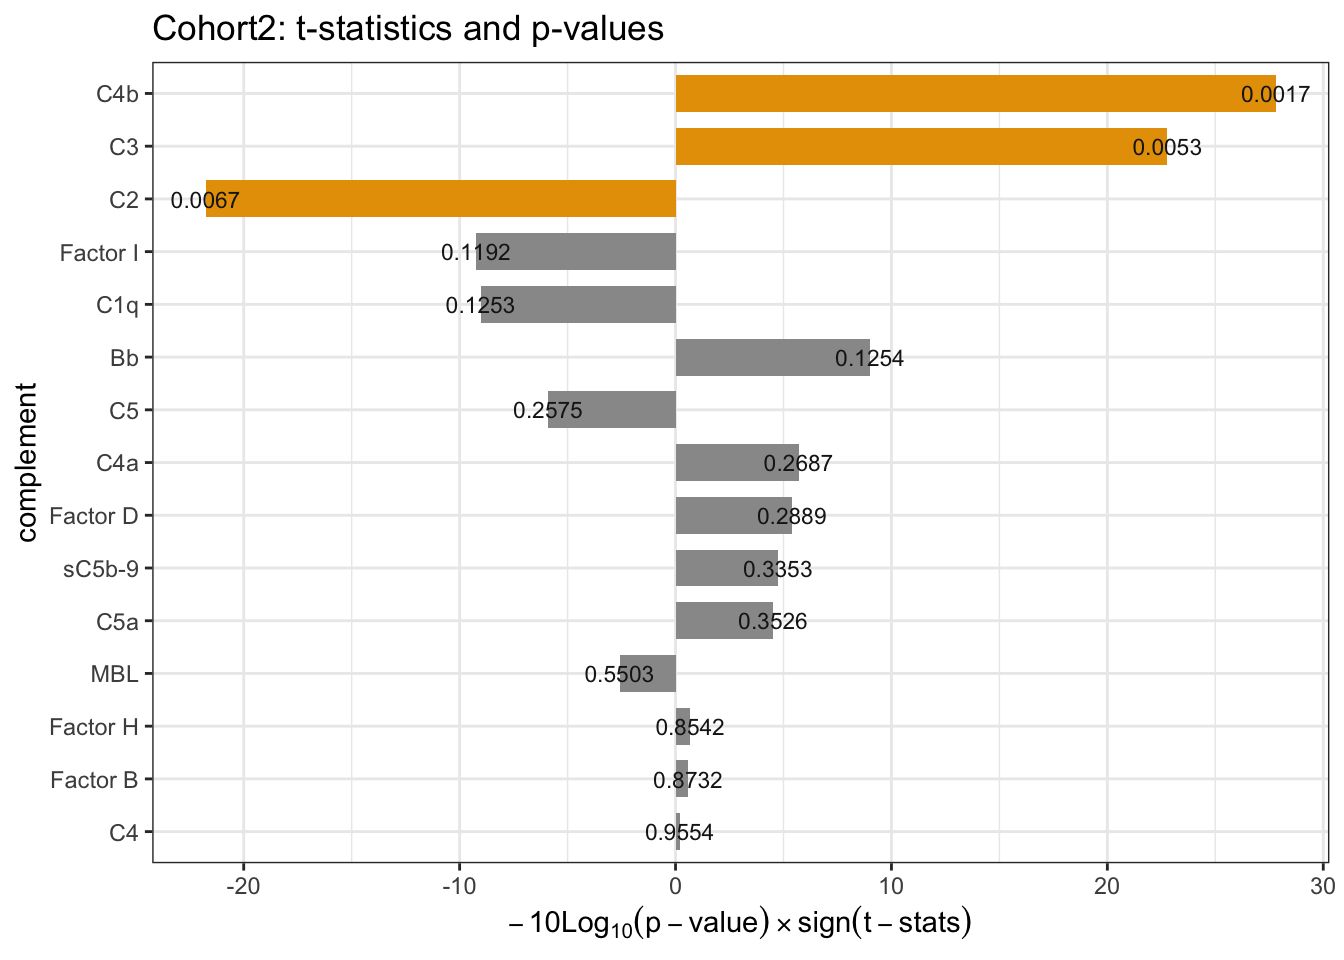
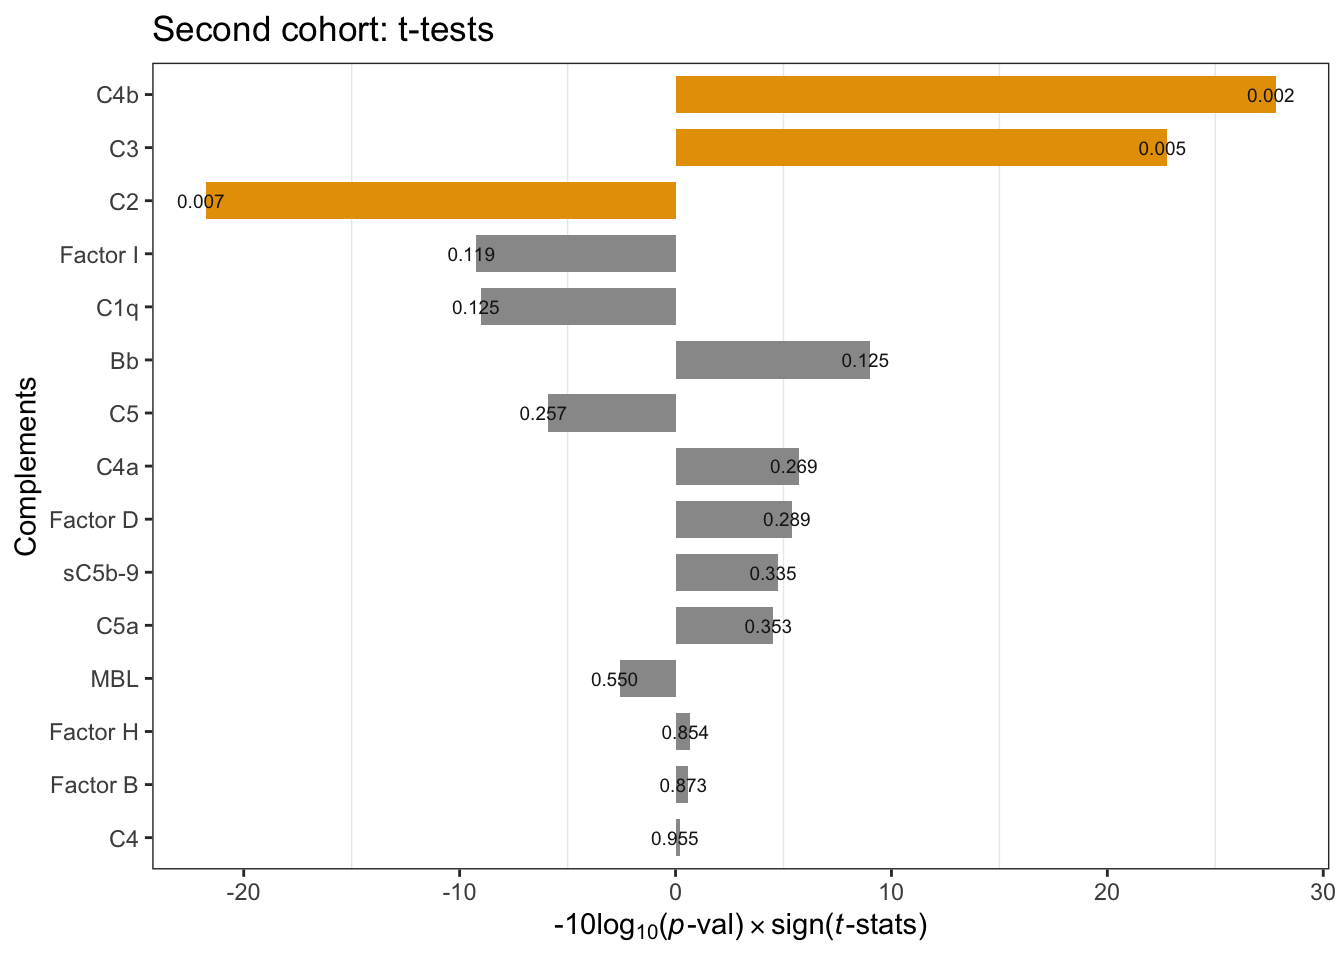
modifited first and second cohorts page

diff --git a/docs/second-cohort.html b/docs/second-cohort.html
@@ -24,7 +24,7 @@
 <meta name="author" content="Chao-Jen Wong" />
 
 
-<meta name="date" content="2021-11-27" />
+<meta name="date" content="2021-11-29" />
 
   <meta name="viewport" content="width=device-width, initial-scale=1" />
   <meta name="apple-mobile-web-app-capable" content="yes" />
@@ -208,17 +208,19 @@ code span.wa { color: #60a0b0; font-weight: bold; font-style: italic; } /* Warni
 <a class="sourceLine" id="cb1-8" data-line-number="8"><span class="kw">suppressPackageStartupMessages</span>(<span class="kw">library</span>(pheatmap))</a>
 <a class="sourceLine" id="cb1-9" data-line-number="9"><span class="kw">suppressPackageStartupMessages</span>(<span class="kw">library</span>(viridis))</a>
 <a class="sourceLine" id="cb1-10" data-line-number="10"><span class="kw">suppressPackageStartupMessages</span>(<span class="kw">library</span>(pheatmap))</a>
-<a class="sourceLine" id="cb1-11" data-line-number="11">pkg_dir &lt;-<span class="st"> &quot;~/CompBio/Wellstone_Plasma_Complement_in_FSHD&quot;</span></a>
-<a class="sourceLine" id="cb1-12" data-line-number="12"><span class="kw">source</span>(<span class="kw">file.path</span>(pkg_dir, <span class="st">&quot;scripts&quot;</span>, <span class="st">&quot;tools.R&quot;</span>))</a>
-<a class="sourceLine" id="cb1-13" data-line-number="13">fig_dir &lt;-<span class="st"> </span><span class="kw">file.path</span>(pkg_dir, <span class="st">&quot;figures&quot;</span>)</a>
-<a class="sourceLine" id="cb1-14" data-line-number="14"><span class="co"># cohort2 specific</span></a>
-<a class="sourceLine" id="cb1-15" data-line-number="15">cohort2 &lt;-<span class="st"> </span><span class="kw">get</span>(<span class="kw">load</span>(<span class="kw">file.path</span>(pkg_dir, <span class="st">&quot;data&quot;</span>, <span class="st">&quot;table_2.rda&quot;</span>)))</a>
-<a class="sourceLine" id="cb1-16" data-line-number="16">components &lt;-<span class="st"> </span><span class="kw">c</span>(<span class="st">&quot;Bb&quot;</span>, <span class="st">&quot;C2&quot;</span>, <span class="st">&quot;C4b&quot;</span>, <span class="st">&quot;C5&quot;</span>, <span class="st">&quot;C5a&quot;</span>, <span class="st">&quot;Factor D&quot;</span>, <span class="st">&quot;MBL&quot;</span>, <span class="st">&quot;Factor I&quot;</span>,</a>
-<a class="sourceLine" id="cb1-17" data-line-number="17">                <span class="st">&quot;C1q&quot;</span>, <span class="st">&quot;C3&quot;</span>, <span class="st">&quot;C4&quot;</span>, <span class="st">&quot;Factor B&quot;</span>, <span class="st">&quot;Factor H&quot;</span>,</a>
-<a class="sourceLine" id="cb1-18" data-line-number="18">                <span class="st">&quot;C4a&quot;</span>, <span class="st">&quot;sC5b-9&quot;</span>)</a>
-<a class="sourceLine" id="cb1-19" data-line-number="19">my_color &lt;-<span class="st"> </span><span class="kw">viridis_pal</span>(<span class="dt">direction =</span> <span class="dv">-1</span>)(<span class="dv">8</span>)[<span class="kw">c</span>(<span class="dv">3</span>, <span class="dv">6</span>)] <span class="co"># control and FSHD</span></a>
-<a class="sourceLine" id="cb1-20" data-line-number="20"><span class="kw">names</span>(my_color) &lt;-<span class="st"> </span><span class="kw">c</span>(<span class="st">&quot;Control&quot;</span>, <span class="st">&quot;FSHD&quot;</span>)</a>
-<a class="sourceLine" id="cb1-21" data-line-number="21">mean_color &lt;-<span class="st"> &quot;#FF0000&quot;</span></a></code></pre></div>
+<a class="sourceLine" id="cb1-11" data-line-number="11"><span class="kw">suppressPackageStartupMessages</span>(<span class="kw">library</span>(latex2exp))</a>
+<a class="sourceLine" id="cb1-12" data-line-number="12"></a>
+<a class="sourceLine" id="cb1-13" data-line-number="13">pkg_dir &lt;-<span class="st"> &quot;~/CompBio/Wellstone_Plasma_Complement_in_FSHD&quot;</span></a>
+<a class="sourceLine" id="cb1-14" data-line-number="14"><span class="kw">source</span>(<span class="kw">file.path</span>(pkg_dir, <span class="st">&quot;scripts&quot;</span>, <span class="st">&quot;tools.R&quot;</span>))</a>
+<a class="sourceLine" id="cb1-15" data-line-number="15">fig_dir &lt;-<span class="st"> </span><span class="kw">file.path</span>(pkg_dir, <span class="st">&quot;figures&quot;</span>)</a>
+<a class="sourceLine" id="cb1-16" data-line-number="16"><span class="co"># cohort2 specific</span></a>
+<a class="sourceLine" id="cb1-17" data-line-number="17">cohort2 &lt;-<span class="st"> </span><span class="kw">get</span>(<span class="kw">load</span>(<span class="kw">file.path</span>(pkg_dir, <span class="st">&quot;data&quot;</span>, <span class="st">&quot;table_2.rda&quot;</span>)))</a>
+<a class="sourceLine" id="cb1-18" data-line-number="18">components &lt;-<span class="st"> </span><span class="kw">c</span>(<span class="st">&quot;Bb&quot;</span>, <span class="st">&quot;C2&quot;</span>, <span class="st">&quot;C4b&quot;</span>, <span class="st">&quot;C5&quot;</span>, <span class="st">&quot;C5a&quot;</span>, <span class="st">&quot;Factor D&quot;</span>, <span class="st">&quot;MBL&quot;</span>, <span class="st">&quot;Factor I&quot;</span>,</a>
+<a class="sourceLine" id="cb1-19" data-line-number="19">                <span class="st">&quot;C1q&quot;</span>, <span class="st">&quot;C3&quot;</span>, <span class="st">&quot;C4&quot;</span>, <span class="st">&quot;Factor B&quot;</span>, <span class="st">&quot;Factor H&quot;</span>,</a>
+<a class="sourceLine" id="cb1-20" data-line-number="20">                <span class="st">&quot;C4a&quot;</span>, <span class="st">&quot;sC5b-9&quot;</span>)</a>
+<a class="sourceLine" id="cb1-21" data-line-number="21">my_color &lt;-<span class="st"> </span><span class="kw">viridis_pal</span>(<span class="dt">direction =</span> <span class="dv">-1</span>)(<span class="dv">8</span>)[<span class="kw">c</span>(<span class="dv">3</span>, <span class="dv">6</span>)] <span class="co"># control and FSHD</span></a>
+<a class="sourceLine" id="cb1-22" data-line-number="22"><span class="kw">names</span>(my_color) &lt;-<span class="st"> </span><span class="kw">c</span>(<span class="st">&quot;Control&quot;</span>, <span class="st">&quot;FSHD&quot;</span>)</a>
+<a class="sourceLine" id="cb1-23" data-line-number="23">mean_color &lt;-<span class="st"> &quot;#FF0000&quot;</span></a></code></pre></div>
 <div id="demographic-distribution-1" class="section level2">
 <h2><span class="header-section-number">2.1</span> Demographic distribution</h2>
 <p><strong>Age distribution of FSHD</strong></p>
@@ -397,16 +399,17 @@ female
 <a class="sourceLine" id="cb7-14" data-line-number="14"><span class="st">  </span><span class="kw">mutate</span>(<span class="dt">candidate =</span> <span class="kw">ifelse</span>(t_test <span class="op">&lt;</span><span class="st"> </span><span class="fl">0.05</span>, <span class="st">&quot;Yes&quot;</span>, <span class="st">&quot;No&quot;</span>)) <span class="op">%&gt;%</span></a>
 <a class="sourceLine" id="cb7-15" data-line-number="15"><span class="st">  </span><span class="kw">arrange</span>(<span class="kw">desc</span>(t_test)) <span class="op">%&gt;%</span></a>
 <a class="sourceLine" id="cb7-16" data-line-number="16"><span class="st">  </span><span class="kw">mutate</span>(<span class="dt">complement=</span><span class="kw">factor</span>(complement, <span class="dt">levels=</span>complement)) <span class="op">%&gt;%</span></a>
-<a class="sourceLine" id="cb7-17" data-line-number="17"><span class="st">  </span><span class="kw">mutate</span>(<span class="dt">formated_p =</span> <span class="kw">format</span>(t_test, <span class="dt">digit=</span><span class="dv">2</span>))</a></code></pre></div>
+<a class="sourceLine" id="cb7-17" data-line-number="17"><span class="st">  </span><span class="kw">mutate</span>(<span class="dt">formated_p =</span> <span class="kw">format</span>(t_test, <span class="dt">digit=</span><span class="dv">1</span>)) </a></code></pre></div>
 <div class="sourceCode" id="cb8"><pre class="sourceCode r"><code class="sourceCode r"><a class="sourceLine" id="cb8-1" data-line-number="1"><span class="kw">ggplot</span>(cohort2_ttest, <span class="kw">aes</span>(<span class="dt">x=</span>complement, <span class="dt">y=</span>log10Pval, <span class="dt">fill=</span>candidate)) <span class="op">+</span></a>
 <a class="sourceLine" id="cb8-2" data-line-number="2"><span class="st">  </span><span class="kw">geom_bar</span>(<span class="dt">stat=</span><span class="st">&quot;identity&quot;</span>, <span class="dt">width=</span><span class="fl">0.7</span>, <span class="dt">show.legend=</span><span class="ot">FALSE</span>) <span class="op">+</span></a>
 <a class="sourceLine" id="cb8-3" data-line-number="3"><span class="st">  </span><span class="kw">coord_flip</span>() <span class="op">+</span></a>
 <a class="sourceLine" id="cb8-4" data-line-number="4"><span class="st">  </span><span class="kw">scale_fill_manual</span>(<span class="dt">values=</span><span class="kw">c</span>(<span class="st">&quot;#999999&quot;</span>, <span class="st">&quot;#E69F00&quot;</span>)) <span class="op">+</span></a>
 <a class="sourceLine" id="cb8-5" data-line-number="5"><span class="st">  </span><span class="kw">theme_bw</span>() <span class="op">+</span></a>
-<a class="sourceLine" id="cb8-6" data-line-number="6"><span class="st">  </span><span class="kw">labs</span>(<span class="dt">title=</span><span class="st">&quot;Cohort2: t-statistics and p-values&quot;</span>, </a>
-<a class="sourceLine" id="cb8-7" data-line-number="7">       <span class="dt">y=</span><span class="kw">expression</span>(<span class="op">-</span><span class="dv">10</span><span class="op">*</span>Log[<span class="dv">10</span>](p<span class="op">-</span>value) <span class="op">%*%</span><span class="st"> </span><span class="kw">sign</span>(t<span class="op">-</span>stats))) <span class="op">+</span></a>
-<a class="sourceLine" id="cb8-8" data-line-number="8"><span class="st">  </span><span class="kw">geom_text</span>(<span class="kw">aes</span>(<span class="dt">label=</span>formated_p), <span class="dt">vjust=</span><span class="fl">0.5</span>, <span class="dt">hjust=</span><span class="fl">0.5</span>, <span class="dt">color=</span><span class="st">&quot;gray10&quot;</span>,</a>
-<a class="sourceLine" id="cb8-9" data-line-number="9">            <span class="dt">position =</span> <span class="kw">position_dodge</span>(<span class="dv">1</span>), <span class="dt">size=</span><span class="dv">3</span>)</a></code></pre></div>
+<a class="sourceLine" id="cb8-6" data-line-number="6"><span class="st">  </span><span class="kw">labs</span>(<span class="dt">title=</span><span class="kw">TeX</span>(<span class="st">&quot;Second cohort: $t$-tests&quot;</span>), <span class="dt">x=</span><span class="st">&quot;Complements&quot;</span>,</a>
+<a class="sourceLine" id="cb8-7" data-line-number="7">       <span class="dt">y=</span><span class="kw">TeX</span>(<span class="st">&quot;$-10</span><span class="ch">\\</span><span class="st">log_{10}(</span><span class="ch">\\</span><span class="st">mathit{p}-val) </span><span class="ch">\\</span><span class="st">times sign(</span><span class="ch">\\</span><span class="st">mathit{t}-stats)$&quot;</span>)) <span class="op">+</span></a>
+<a class="sourceLine" id="cb8-8" data-line-number="8"><span class="st">  </span><span class="kw">geom_text</span>(<span class="kw">aes</span>(<span class="dt">label=</span>formated_p), <span class="dt">vjust=</span><span class="fl">0.5</span>, <span class="dt">hjust=</span><span class="fl">0.6</span>, <span class="dt">color=</span><span class="st">&quot;gray10&quot;</span>,</a>
+<a class="sourceLine" id="cb8-9" data-line-number="9">            <span class="dt">position =</span> <span class="kw">position_dodge</span>(<span class="dv">1</span>), <span class="dt">size=</span><span class="fl">2.5</span>) <span class="op">+</span></a>
+<a class="sourceLine" id="cb8-10" data-line-number="10"><span class="st">  </span><span class="kw">theme</span>(<span class="dt">panel.grid.major =</span> <span class="kw">element_blank</span>())</a></code></pre></div>
 <div class="figure"><span id="fig:cohort2-ttest-barplot"></span>
 <img src="gitbook_files/figure-html/cohort2-ttest-barplot-1.png" alt="Cohort2 per-compoment t-tests: FSHD vs. controls. * negative -10Log10(p-value) indicates negative t-statistics." width="672" />
 <p class="caption">
@@ -414,7 +417,7 @@ Figure 2.1: Cohort2 per-compoment t-tests: FSHD vs. controls. * negative -10Log
 </p>
 </div>
 <div class="sourceCode" id="cb9"><pre class="sourceCode r"><code class="sourceCode r"><a class="sourceLine" id="cb9-1" data-line-number="1"><span class="kw">ggsave</span>(<span class="dt">file=</span><span class="kw">file.path</span>(pkg_dir, <span class="st">&quot;figures&quot;</span>, <span class="st">&quot;cohort2-ttest-pvalue-bar.pdf&quot;</span>),</a>
-<a class="sourceLine" id="cb9-2" data-line-number="2">       <span class="dt">width=</span><span class="dv">5</span>, <span class="dt">height=</span><span class="dv">3</span>)  </a></code></pre></div>
+<a class="sourceLine" id="cb9-2" data-line-number="2">       <span class="dt">width=</span><span class="fl">3.2</span>, <span class="dt">height=</span><span class="fl">2.5</span>)  </a></code></pre></div>
 </div>
 <div id="violin-plot-of-15-complement-components-measurements" class="section level3">
 <h3><span class="header-section-number">2.2.2</span> Violin plot of 15 complement components measurements</h3>
@@ -428,12 +431,13 @@ Figure 2.1: Cohort2 per-compoment t-tests: FSHD vs. controls. * negative -10Log
 <a class="sourceLine" id="cb10-8" data-line-number="8"><span class="st">    </span><span class="kw">stat_summary</span>(<span class="dt">fun=</span>mean, <span class="dt">geom=</span><span class="st">&quot;point&quot;</span>, <span class="dt">shape=</span><span class="dv">23</span>, <span class="dt">size=</span><span class="fl">2.5</span>,</a>
 <a class="sourceLine" id="cb10-9" data-line-number="9">                 <span class="dt">color=</span><span class="st">&quot;#FF0000&quot;</span>) <span class="op">+</span></a>
 <a class="sourceLine" id="cb10-10" data-line-number="10"><span class="st">    </span><span class="kw">theme_minimal</span>() <span class="op">+</span></a>
-<a class="sourceLine" id="cb10-11" data-line-number="11"><span class="st">    </span><span class="kw">labs</span>( <span class="dt">y=</span><span class="kw">expression</span>(mu<span class="op">*</span>g <span class="op">/</span><span class="st"> </span>ml)) <span class="op">+</span></a>
-<a class="sourceLine" id="cb10-12" data-line-number="12"><span class="st">    </span><span class="kw">facet_wrap</span>(<span class="op">~</span><span class="st"> </span>complement , <span class="dt">scale=</span><span class="st">&quot;free&quot;</span>, <span class="dt">nrow=</span><span class="dv">3</span>) <span class="op">+</span></a>
-<a class="sourceLine" id="cb10-13" data-line-number="13"><span class="st">    </span><span class="kw">scale_fill_manual</span>(<span class="dt">values=</span>my_color) <span class="op">+</span></a>
-<a class="sourceLine" id="cb10-14" data-line-number="14"><span class="st">    </span><span class="kw">scale_color_manual</span>(<span class="dt">values=</span>my_color) <span class="op">+</span></a>
-<a class="sourceLine" id="cb10-15" data-line-number="15"><span class="st">    </span><span class="kw">theme</span>(<span class="dt">legend.position=</span><span class="st">&quot;none&quot;</span>,  <span class="dt">legend.key.size =</span> <span class="kw">unit</span>(<span class="fl">0.4</span>, <span class="st">&#39;cm&#39;</span>),</a>
-<a class="sourceLine" id="cb10-16" data-line-number="16">          <span class="dt">axis.title.x=</span><span class="kw">element_blank</span>())</a></code></pre></div>
+<a class="sourceLine" id="cb10-11" data-line-number="11"><span class="st">    </span><span class="kw">labs</span>( <span class="dt">y=</span><span class="kw">expression</span>(mu<span class="op">*</span>g <span class="op">/</span><span class="st"> </span>ml),</a>
+<a class="sourceLine" id="cb10-12" data-line-number="12">          <span class="dt">title=</span><span class="st">&quot;Second cohort complement components&quot;</span>) <span class="op">+</span></a>
+<a class="sourceLine" id="cb10-13" data-line-number="13"><span class="st">    </span><span class="kw">facet_wrap</span>(<span class="op">~</span><span class="st"> </span>complement , <span class="dt">scale=</span><span class="st">&quot;free&quot;</span>, <span class="dt">nrow=</span><span class="dv">3</span>) <span class="op">+</span></a>
+<a class="sourceLine" id="cb10-14" data-line-number="14"><span class="st">    </span><span class="kw">scale_fill_manual</span>(<span class="dt">values=</span>my_color) <span class="op">+</span></a>
+<a class="sourceLine" id="cb10-15" data-line-number="15"><span class="st">    </span><span class="kw">scale_color_manual</span>(<span class="dt">values=</span>my_color) <span class="op">+</span></a>
+<a class="sourceLine" id="cb10-16" data-line-number="16"><span class="st">    </span><span class="kw">theme</span>(<span class="dt">legend.position=</span><span class="kw">c</span>(<span class="fl">0.9</span>, <span class="fl">0.15</span>),  <span class="dt">legend.key.size =</span> <span class="kw">unit</span>(<span class="fl">0.4</span>, <span class="st">&#39;cm&#39;</span>),</a>
+<a class="sourceLine" id="cb10-17" data-line-number="17">          <span class="dt">axis.title.x=</span><span class="kw">element_blank</span>(), <span class="dt">axis.text.x=</span><span class="kw">element_blank</span>())</a></code></pre></div>
 <div class="figure"><span id="fig:cohort2-violin"></span>
 <img src="gitbook_files/figure-html/cohort2-violin-1.png" alt="14 complement components measurements grouped by FSHD and control samples." width="672" />
 <p class="caption">
@@ -441,7 +445,7 @@ Figure 2.2: 14 complement components measurements grouped by FSHD and control sa
 </p>
 </div>
 <div class="sourceCode" id="cb11"><pre class="sourceCode r"><code class="sourceCode r"><a class="sourceLine" id="cb11-1" data-line-number="1"><span class="kw">ggsave</span>(<span class="dt">file=</span><span class="kw">file.path</span>(pkg_dir, <span class="st">&quot;figures&quot;</span>, <span class="st">&quot;cohort2-violin-15components.pdf&quot;</span>),</a>
-<a class="sourceLine" id="cb11-2" data-line-number="2">       <span class="dt">width=</span><span class="fl">6.5</span>, <span class="dt">height=</span><span class="dv">6</span>)</a></code></pre></div>
+<a class="sourceLine" id="cb11-2" data-line-number="2">       <span class="dt">width=</span><span class="fl">4.5</span>, <span class="dt">height=</span><span class="fl">4.5</span>)</a></code></pre></div>
 </div>
 </div>
 <div id="controls-from-two-cohorts" class="section level2">
@@ -549,8 +553,8 @@ Figure 2.4: A trajectory plot of complement levels between the first (plasma1) a
 <a class="sourceLine" id="cb17-24" data-line-number="24"></a>
 <a class="sourceLine" id="cb17-25" data-line-number="25">lm_r2 &lt;-<span class="st"> </span><span class="cf">function</span>(df) {</a>
 <a class="sourceLine" id="cb17-26" data-line-number="26">  m &lt;-<span class="st"> </span><span class="kw">lm</span>(plasma2 <span class="op">~</span><span class="st"> </span>plasma1, df)</a>
-<a class="sourceLine" id="cb17-27" data-line-number="27">  r2 &lt;-<span class="st"> </span><span class="kw">format</span>(<span class="kw">sqrt</span>(<span class="kw">summary</span>(m)<span class="op">$</span>r.squared), <span class="dt">digits =</span> <span class="dv">3</span>)</a>
-<a class="sourceLine" id="cb17-28" data-line-number="28">  <span class="kw">data.frame</span>(<span class="dt">label=</span><span class="kw">paste0</span>(<span class="st">&quot;r2=&quot;</span>, r2))</a>
+<a class="sourceLine" id="cb17-27" data-line-number="27">  r &lt;-<span class="st"> </span><span class="kw">format</span>(<span class="kw">sqrt</span>(<span class="kw">summary</span>(m)<span class="op">$</span>r.squared), <span class="dt">digits =</span> <span class="dv">3</span>)</a>
+<a class="sourceLine" id="cb17-28" data-line-number="28">  <span class="kw">data.frame</span>(<span class="dt">label=</span><span class="kw">paste0</span>(<span class="st">&quot;r=&quot;</span>, r))</a>
 <a class="sourceLine" id="cb17-29" data-line-number="29">}</a>
 <a class="sourceLine" id="cb17-30" data-line-number="30"></a>
 <a class="sourceLine" id="cb17-31" data-line-number="31">lm_<span class="dv">2</span> &lt;-<span class="st"> </span>paired <span class="op">%&gt;%</span><span class="st"> </span><span class="kw">group_by</span>(complement) <span class="op">%&gt;%</span></a>
@@ -578,7 +582,8 @@ Figure 2.4: A trajectory plot of complement levels between the first (plasma1) a
 <p><img src="gitbook_files/figure-html/scatter-between-two-visits-1.png" width="672" /></p>
 <div class="sourceCode" id="cb18"><pre class="sourceCode r"><code class="sourceCode r"><a class="sourceLine" id="cb18-1" data-line-number="1"><span class="kw">ggsave</span>(<span class="kw">file.path</span>(pkg_dir, <span class="st">&quot;figures&quot;</span>, </a>
 <a class="sourceLine" id="cb18-2" data-line-number="2">                 <span class="st">&quot;Cohort2-plasma-pairs-scatterplot.pdf&quot;</span>), <span class="dt">width=</span><span class="fl">7.5</span>, <span class="dt">height=</span><span class="dv">6</span>)</a></code></pre></div>
-<p>note: higher R-squared values represent smaller differences between the observed data and the fitted values.</p>
+<p>note: higher R-squared values represent smaller differences between the observed data and the fitted values.
+note: in linear regression model, the p-value for each term tests the null hypothesis that the coefficient (slope) is equal to zero (no effect). A low p-value (&lt; 0.05) indicates that you can reject the null hypothesis. In other words, a low p-value indicates the changes in the predictor’s (plasma2) value are related to changes in the response variable (plasma1). Conversely, a larger (insignificant) p-value suggests that changes in the predictor are not associated with changes in the response.</p>
 <div class="sourceCode" id="cb19"><pre class="sourceCode r"><code class="sourceCode r"><a class="sourceLine" id="cb19-1" data-line-number="1"><span class="co">#broom::tidy</span></a>
 <a class="sourceLine" id="cb19-2" data-line-number="2">paired <span class="op">%&gt;%</span><span class="st"> </span><span class="kw">group_by</span>(complement) <span class="op">%&gt;%</span></a>
 <a class="sourceLine" id="cb19-3" data-line-number="3"><span class="st">  </span><span class="kw">group_modify</span>(<span class="op">~</span><span class="st"> </span>broom<span class="op">::</span><span class="kw">glance</span>(<span class="kw">lm</span>(plasma2 <span class="op">~</span><span class="st"> </span>plasma1, <span class="dt">data =</span> .x))) <span class="op">%&gt;%</span></a>
